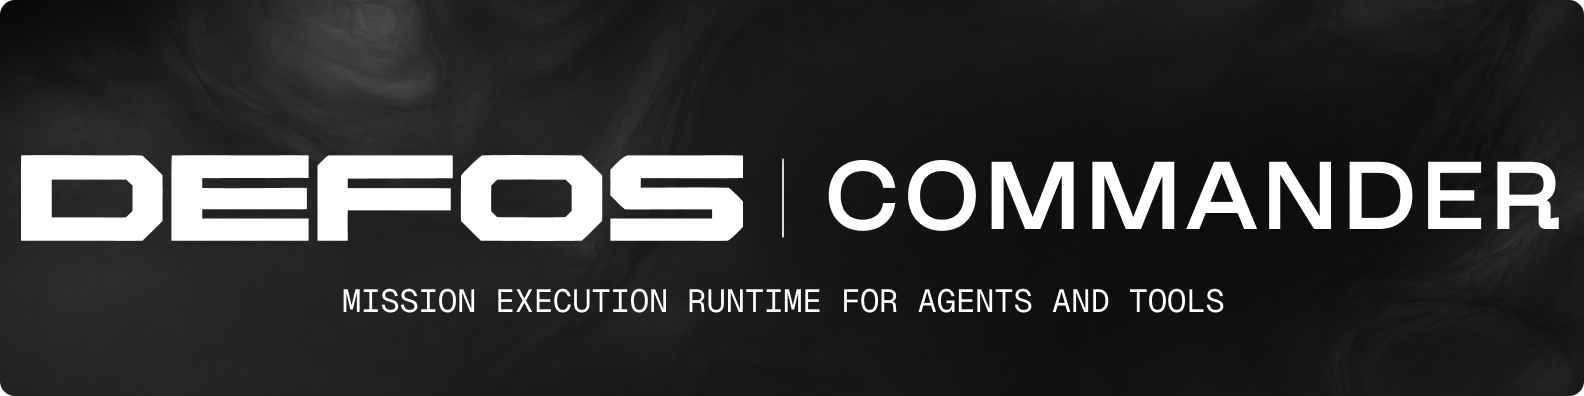
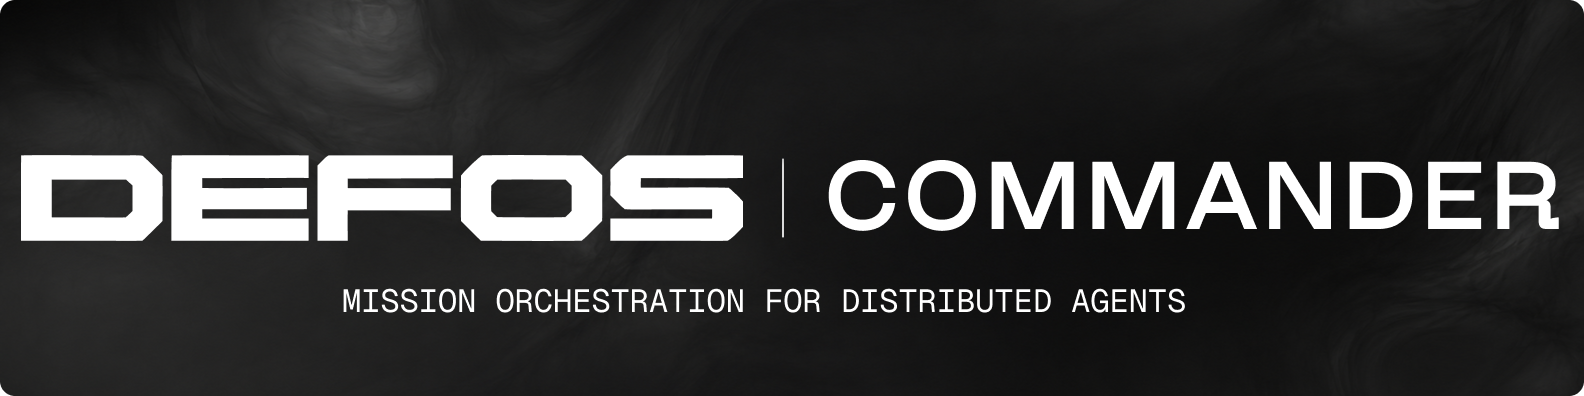
Update cover and README.md

Changed region(s): [[0.3093, 0.7273, 0.7734, 0.7879]]

diff --git a/README.md b/README.md
@@ -4,6 +4,17 @@
 
 DEFOS Commander orchestrates missions across distributed agents. Automate predictable steps, delegate decisions to AI or people, and track execution, results, and artifacts in one place.
 
+## Where to use it
+
+Use Commander for complex workflows that a single AI cannot reliably coordinate alone:
+
+- **Cybersecurity:** asset discovery and security assessments.
+- **Investigations:** evidence collection and analysis.
+- **Development:** code changes, testing, and review.
+- **IT operations:** diagnostics and approved recovery.
+- **Data processing:** validation and enrichment.
+- **Website quality:** links, accessibility, and SEO checks.
+
 ## How it works
 
 **Commander -> Controller -> Agent**
